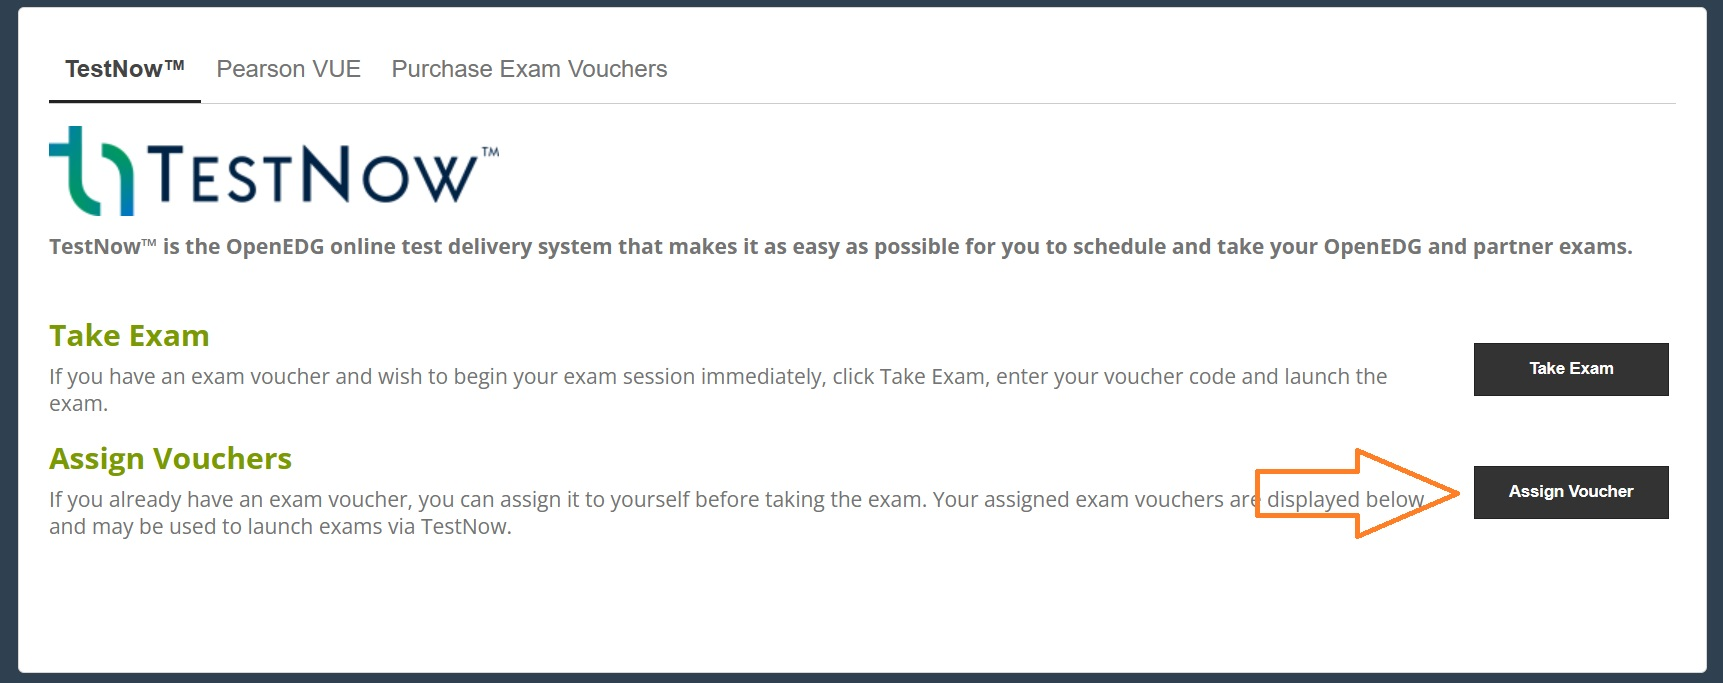
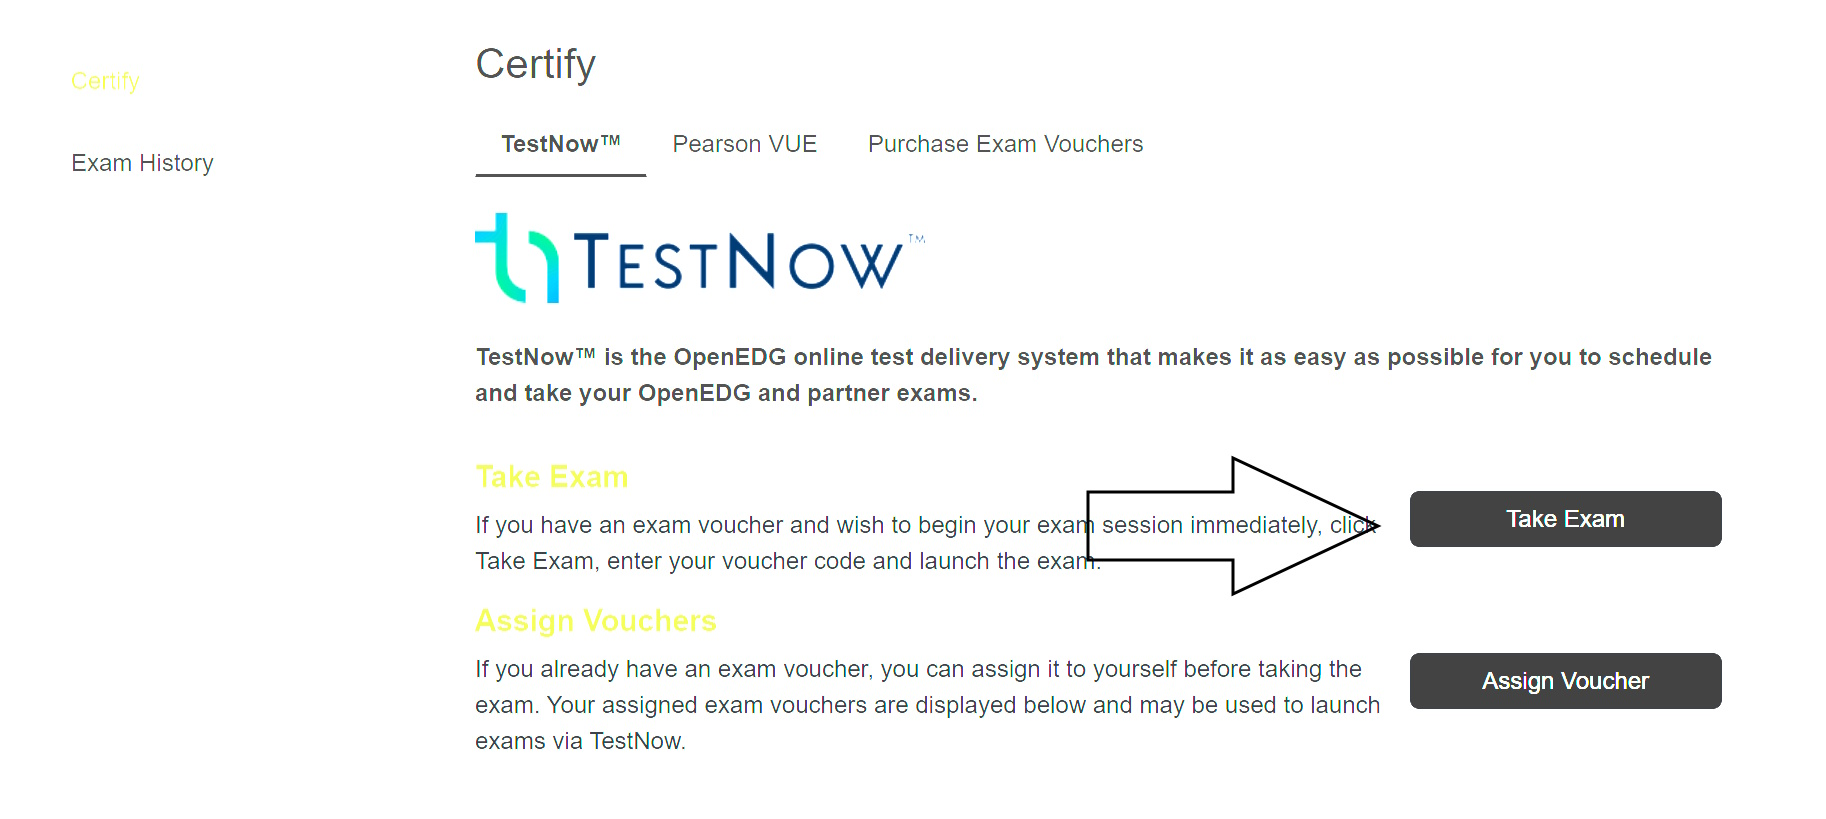
cert update

Changed region(s): [[0.0, 0.0, 1.0, 1.0], [0.2461, 0.3997, 0.9536, 0.4919], [0.3691, 0.1537, 0.646, 0.1845]]

diff --git a/sprint3/week14/cert_test_directions/index.md b/sprint3/week14/cert_test_directions/index.md
@@ -9,11 +9,10 @@ layout: default
 **Entering your Voucher Number**
 1. Open the the Certification Exam submission link in Moodle. Locate your voucher code.
 ![Cert Exam Submit on Moodle](cert_test_site_0.jpg)
-2. Open the certification site. Switch to test candidate.
+2. Open the certification site. Switch to certification page.
 ![Cert Exam Submit on Moodle](cert_test_site_1.jpg)
-3. Select the TestNow option.
+3. Click the Assign Voucher option. Copy your voucher code from the Moodle link into the text box provided.
 ![Cert Exam Submit on Moodle](cert_test_site_2.jpg)
-1. Click the Assign Voucher option. Copy your voucher code from the Moodle link into the text box provided.
+4. With the voucher number entered, you can now complete the certification exam. You must follow the instructions when completing and submitting. Contact the instructor if you have questions.
 ![Cert Exam Submit on Moodle](cert_test_site_3.jpg)
-1. With the voucher number entered, you can now complete the certification exam. You must follow the instructions when completing and submitting. Contact the instructor if you have questions.
-![Cert Exam Submit on Moodle](cert_test_site_4.jpg)
+5. Complete the exam by the deadline and capture an image of the final score. Submit this image to the Moodle link.
